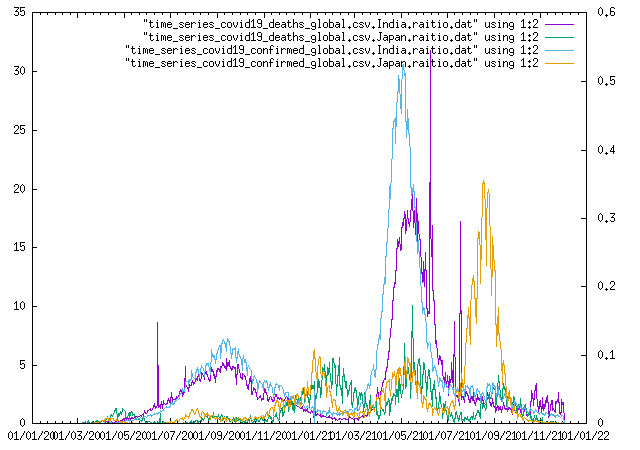
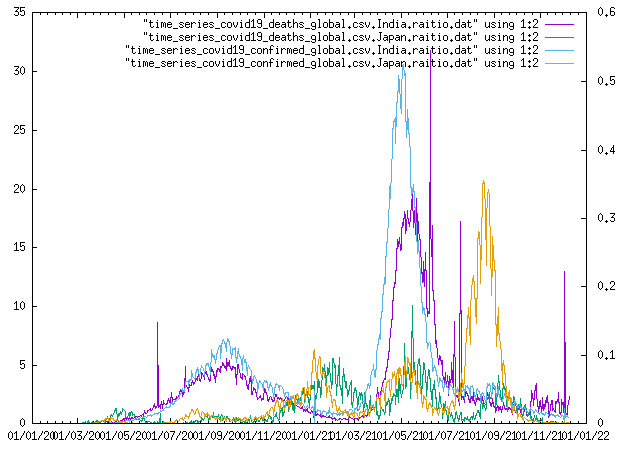
up

diff --git a/index.html b/index.html
@@ -131,7 +131,7 @@ border-left:none;
   <li><a href="https://raw.githubusercontent.com/KeiHasegawa/covid19/master/JapanRussia.jpg">日本, ロシア 10 万人当りの新規陽性者数と死者数</a></li>
   <li><a href="https://raw.githubusercontent.com/KeiHasegawa/covid19/master/JapanUK.jpg">日本, イギリス 10 万人当りの新規陽性者数と死者数</a></li>
   <li><a href="https://raw.githubusercontent.com/KeiHasegawa/covid19/master/Sat_Aug_28_13:00:00_2021.jpg">東京, 千葉, 埼玉, 神奈川の 2021/08/28 (土) 13:00 の人出</a></li>
-  <li><a href="https://raw.githubusercontent.com/KeiHasegawa/covid19/master/Nihonbashi.jpg">日本橋の人出(2021/08/22 - 2021/12/04)</a></li>
+  <li><a href="https://raw.githubusercontent.com/KeiHasegawa/covid19/master/Nihonbashi.jpg">日本橋の人出(2021/08/22 - 2021/12/11)</a></li>
   <li><a href="https://raw.githubusercontent.com/KeiHasegawa/covid19/master/read_tokyo.cpp">read_tokyo.cpp</a></li>
   <li><a href="https://raw.githubusercontent.com/KeiHasegawa/covid19/master/read_nhk.cpp">read_nhk.cpp</a></li>
   <li><a href="https://raw.githubusercontent.com/KeiHasegawa/covid19/master/read_tsc19.cpp">read_tsc19.cpp</a></li>

diff --git a/disp_main.cpp b/disp_main.cpp
@@ -2128,6 +2128,13 @@ int read_dll()
     "../2021.12.03.18/2021_12_03_18",
     "../2021.12.04.18/2021_12_04_18",
     "../2021.12.05.18/2021_12_05_18",
+    "../2021.12.06.18/2021_12_06_18",
+    "../2021.12.07.18/2021_12_07_18",
+    "../2021.12.08.18/2021_12_08_18",
+    "../2021.12.09.18/2021_12_09_18",
+    "../2021.12.10.18/2021_12_10_18",
+    "../2021.12.11.18/2021_12_11_18",
+    "../2021.12.12.18/2021_12_12_18",
   };
   auto p = find_if(begin(dll), end(dll), read_dll1);
   return p - end(dll);
